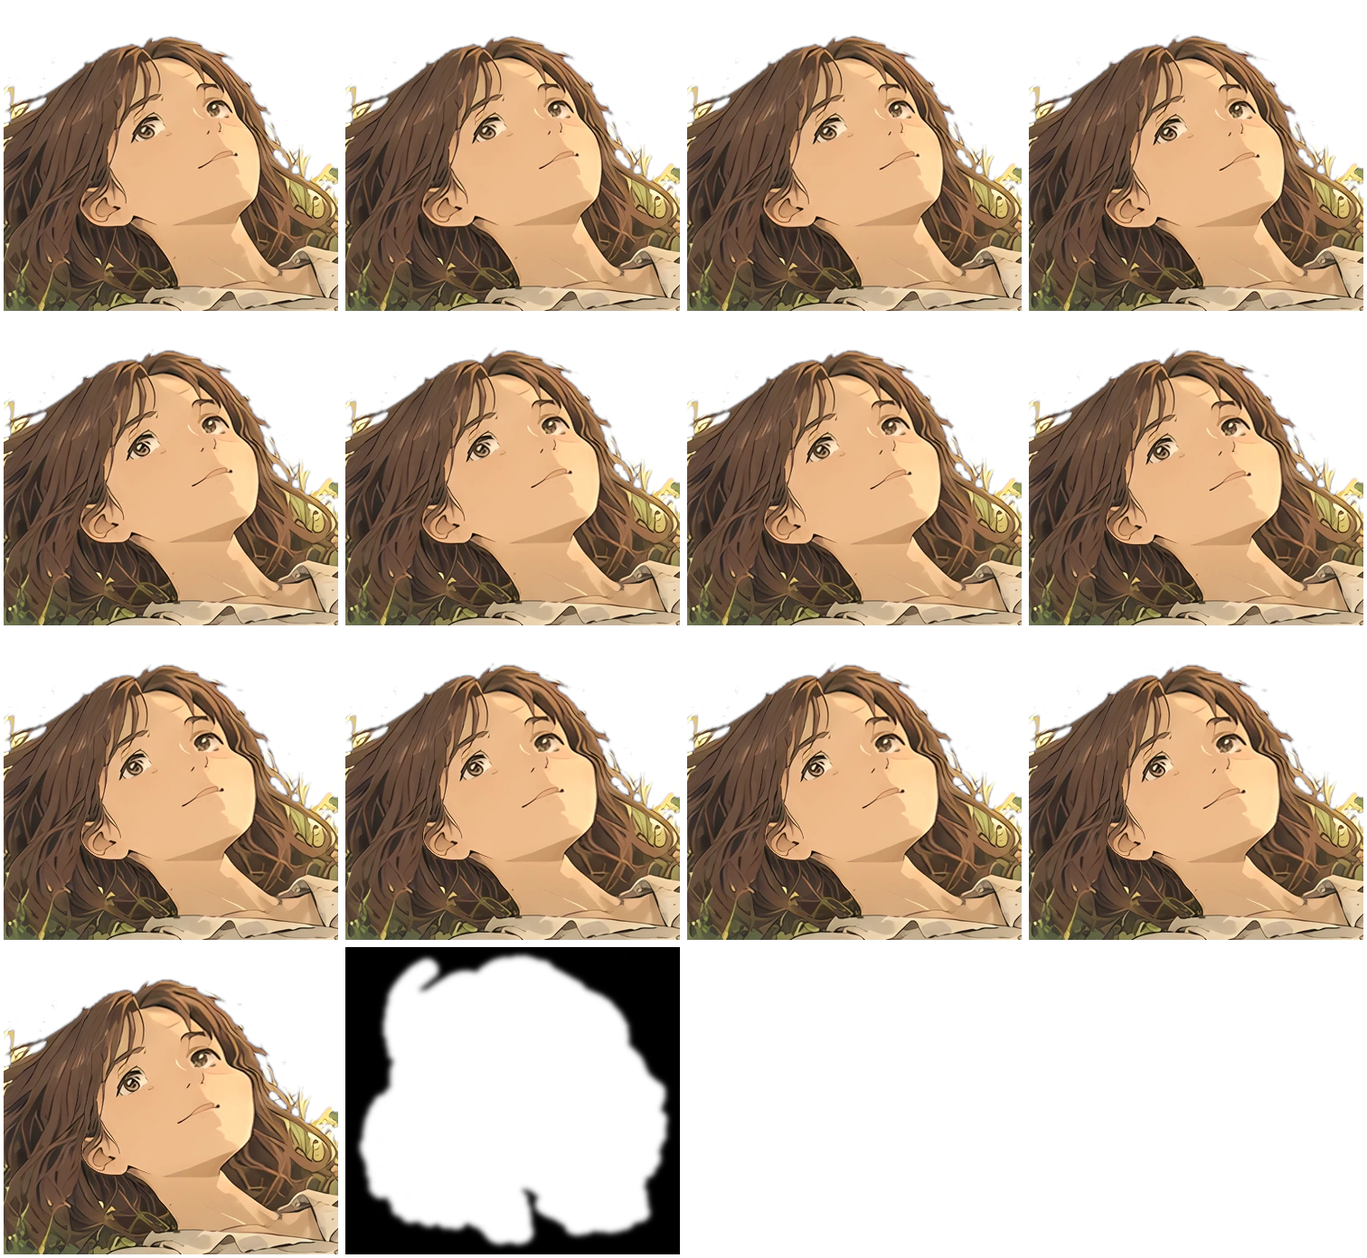
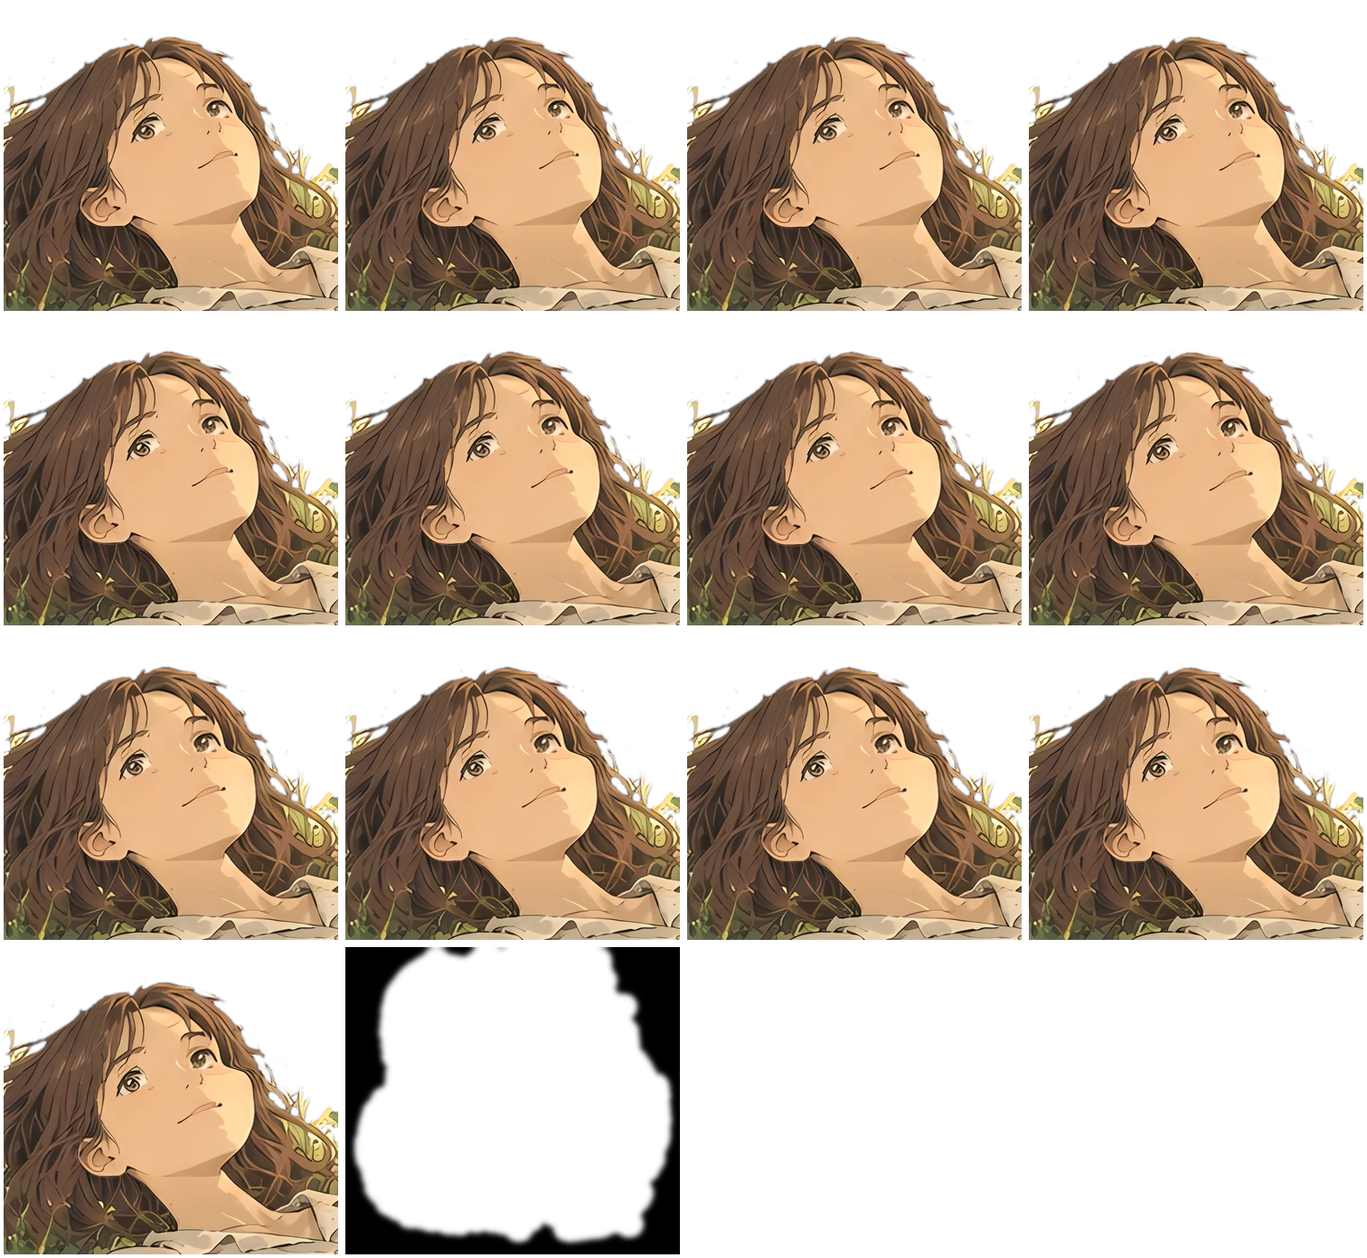
Her turn: rigid jaw and ear, decontaminated edges, Lanczos with supersampling
her-turn.py: the jaw band and the ear (a flap hinged at the cheek, rigid
past its rim) turn without compressing, the depth is slope-limited, the far
eye is masked out of the silhouette push, the hair behind follows the head
only where its edge recedes, and the soft edge is split into the colour of
the drawing and what lies behind it, so the unturned render equals the
panel within 2/255. Resampled with Lanczos (clamped to the local range)
and supersampled where the warp stretches. Strain on her inked pixels: 5.2%
outside 0.75-1.35 (was 21%).

two-shot.py: the region takes every pixel any drawing changes, and refuses
a build where a drawing changes something under the region's soft edge.
The shader's head cell is measured from the box, inset into its gutter.

Claude-Session: https://claude.ai/code/session_01KQPjgRSBPiZRUxNQL4z1Q2

diff --git a/src/world/living/materials.ts b/src/world/living/materials.ts
@@ -240,7 +240,7 @@ const FRAG = /* glsl */ `
 
   // Where a point of her head's box (hq, 0..1 up) is in cell i of her turn's atlas.
   vec2 headCell(float i, vec2 hq) {
-    float c = mod(i, uHeadGrid.x), r = floor(i / uHeadGrid.x + 0.001);
+    float r = floor(i / uHeadGrid.x + 0.001), c = i - r * uHeadGrid.x;
     vec2 inner = uHeadGrid.zw + hq * (1.0 - 2.0 * uHeadGrid.zw);
     return vec2((c + inner.x) / uHeadGrid.x, (uHeadGrid.y - 1.0 - r + inner.y) / uHeadGrid.y);
   }
@@ -412,7 +412,9 @@ const FRAG = /* glsl */ `
       // only the region's edge is soft, and it lies where every drawing is the panel).
       bool redrawn = false;
       if (uHeadCel.x >= 0.0) {
-        vec2 hq = (vUv - uHeadBox.xy) / uHeadBox.zw;
+        // (where their bed's grass sways, so does the grass at the drawing's soft edge: it lies
+        // where the body's does; on them uvF is vUv)
+        vec2 hq = (uvF - uHeadBox.xy) / uHeadBox.zw;
         if (all(greaterThan(hq, vec2(0.0))) && all(lessThan(hq, vec2(1.0)))) {
           vec4 cel = texture2D(uHeads, headCell(uHeadCel.x, hq));
           float m = texture2D(uHeads, headCell(uHeadCel.y - 1.0, hq)).r;

diff --git a/scripts/her-turn.py b/scripts/her-turn.py
@@ -12,23 +12,30 @@ from one drawing, honestly, as a rotation:
 
 - **A head under the paint.** Her pose is fitted from thirteen points of her face (eyes, nose, mouth,
   chin, brows, hairline, ear) to a generic head. On it are a cranium and a face: a midline profile
-  (forehead, nose, mouth, chin), a width, a cross-section, and the nose as a ridge. Her ear is a flap
-  hinged at her cheek, its slant halved (a drawn ear is flatter than a real one). Her neck takes its
-  depth from her jaw.
+  (forehead, nose, mouth, chin), a width, a cross-section, and the nose as a ridge; no surface steeper
+  than `SLOPE` toward its outline (a head's sides go nearly edge-on there, and paint on them swelled
+  or shrank). Her ear is a flap hinged at her cheek, its slant halved (a drawn ear is flatter than a
+  real one), rigid out past its outline; her jaw line holds rigid in a band either side of it; her
+  neck takes its depth from her jaw. So her drawn lines keep their weight.
 - **The turn.** About her neck's axis (the fitted head's up axis, leaning a little into the
   picture), toward him, by `ANGLE`. Her head turns whole; her neck twists, all of it at the jaw and
   none at the collar; the hair near her head follows it a little and the hair lying on the grass
   stays, nothing moving further than `HAIR_REACH` from her head.
 - **Two layers.** In front: her head and neck. Behind: her hair and the rest, filled under her with
-  the hair beside her (`stretch_fill`). What lies just behind her drawn edges (far cheek, chin, neck,
-  ear) moves with them, so the turn never uncovers anything the painting doesn't have. Each layer
-  is an inverse warp of the painting: her lines are resampled, never redrawn.
+  the hair beside her (`stretch_fill`). Her soft edge is split between them, her colour over the
+  colour behind it, so not turned they make the panel exactly. Where an edge of hers draws back from
+  what lies behind it (far cheek, chin, the neck's far side), that goes with it, so the turn never
+  uncovers anything the painting doesn't have; where she passes over it, she simply covers it. Each
+  layer is an inverse warp of the painting, resampled (Lanczos, within the painting's own range;
+  averaged where it is squeezed): her lines are moved, never redrawn.
 - **Her far cheek's outline is a silhouette,** not paint on her skin: it moves as the model's outline
   does (about half as far), and her cheek between it and her eye widens, as a far cheek coming round
-  does.
+  does; her far eye turns with her face, never widened.
 - **Her eyes** are on him first (the film's own iris move, `gazeB` in src/memory/living/woodland.ts,
   as the two-shot shader draws it); as her head comes round they ease back in their sockets, still on
   him (`KEEP` of their turn remains).
+- **Checked** as it runs: not turned, it is the panel (to 2/255); turned, how much of her drawn line
+  is squeezed or stretched past 0.75-1.35 is printed.
 
 One drawing for each of the timeline's steps (`TURN_STEPS`, src/memory/defs.ts) and the last, each
 the 2x crop round her head (lossless), and turn.json (where the crop lies, how far each drawing is):
@@ -63,10 +70,19 @@ CX, N = 754, 512
 ANGLE = 14.0
 TILT = 10.0
 KEEP = 0.65
-# How far from her head the hair near it follows (crop px; none beyond), and how far behind her
-# drawn edges what lies there goes with them.
+# How far from her head the hair near it follows (crop px; none beyond); how far behind an edge of
+# hers that draws back from what lies behind it that goes with it (none behind an edge that passes
+# over it: her face simply covers it); how far either side of her jaw line it holds rigid (so the
+# line keeps its weight and the squeeze falls on the plain skin under her chin); how far past her
+# ear's outline the flap holds rigid.
 HAIR_REACH = 60.0
-DRAG = 36.0
+DRAG = 48.0
+JAW_RIGID = (4.0, 16.0)
+EAR_RIGID = 6
+# How steeply her head's surface may fall away toward its outline (depth px per px): a head's sides
+# turn almost edge-on near its outline, and paint there swelled or shrank up to twice over as she
+# turned (the hair at her far temple thickened); hair is drawn the same width wherever it lies.
+SLOPE = 1.3
 
 # Her face's points on the 2x crop and on a generic head (template units, about a millimetre: up,
 # forward, to her left, from between her ear canals), its eyes larger and lower, its chin higher.
@@ -121,6 +137,9 @@ NECK = [(234, 240), (250, 243), (272, 245), (300, 242), (330, 236)] + NECK_R + \
 JAW = [(234, 240), (250, 243), (272, 245), (300, 242), (330, 236), (349, 236)]
 COLLAR = [(276, 312), (300, 313), (330, 313), (360, 311), (388, 303)]
 DRAWN = [FAR_OUT, NECK_R, NECK_L, EAR_OUT]
+# Her far eye (crop px: centre, radii grown 4 px, angle): it turns with her face, never widened by
+# her far cheek coming round.
+FAR_EYE = ((324.0, 119.2), (18.6, 11.8), 0.29)
 # Her far cheek's outline (the line's centre), below the lock over her temple.
 FAR = [(354, 132), (360, 140), (366, 152), (369, 164), (370, 176), (370, 188), (369, 200), (367, 212), (361, 220)]
 
@@ -234,6 +253,32 @@ def nearest_on(pts, values):
     return table[lab], dist
 
 
+def slope_limited(z, g, iters=96):
+    """`z` brought forward wherever it falls away faster than `g` (the largest surface under it no
+    steeper than `g` in any direction: its outline flattened, its middle as it was)."""
+    out = z.copy()
+    steps = [(dy, dx, g * math.hypot(dy, dx)) for dy in (-1, 0, 1) for dx in (-1, 0, 1) if dy or dx]
+    for _ in range(iters):
+        p = np.pad(out, 1, mode='edge')
+        m = out.copy()
+        for dy, dx, c in steps:
+            m = np.minimum(m, p[1 + dy:1 + dy + N, 1 + dx:1 + dx + N] + c)
+        if np.abs(m - out).max() < 1e-3:
+            return m
+        out = m
+    return out
+
+
+def nearest_on_mask(mask, values):
+    """For each pixel, `values` (an (N, N) or (N, N, C) map) at its nearest pixel of `mask`, and the
+    distance to it."""
+    m = np.where(mask, 0, 255).astype(np.uint8)
+    dist, lab = cv2.distanceTransformWithLabels(m, cv2.DIST_L2, 5, labelType=cv2.DIST_LABEL_PIXEL)
+    table = np.zeros((lab.max() + 1,) + values.shape[2:], values.dtype)
+    table[lab[mask]] = values[mask]
+    return table[lab], dist
+
+
 def hairness(img):
     """How much a pixel is her hair (0..1, soft): brown, darker than her skin."""
     r, g, b = img[..., 0], img[..., 1], img[..., 2]
@@ -274,7 +319,8 @@ def stretch_fill(img, hole, k=0.6, gap=1.5):
     colour = num / np.maximum(den, 1e-4)[..., None]
     t = np.clip(got, 0, 1)[..., None]
     filled = filled * t + colour * (1 - t)
-    m = np.clip(cv2.GaussianBlur(hole.astype(np.float32), (0, 0), 0.8) * 1.6, 0, 1)[..., None]
+    # (a hard seam: it lies under her opaque core, and feathered out it ate into her soft edge)
+    m = hole.astype(np.float32)[..., None]
     return img * (1 - m) + filled * m
 
 
@@ -292,6 +338,40 @@ def inverse(D, iters=80, damp=0.6):
     dx = cv2.remap(Dx, px, py, cv2.INTER_LINEAR, borderMode=cv2.BORDER_REPLICATE)
     dy = cv2.remap(Dy, px, py, cv2.INTER_LINEAR, borderMode=cv2.BORDER_REPLICATE)
     return px, py, np.hypot(px + dx - X, py + dy - Y)
+
+
+def span(mx, my):
+    """How much of the source each output pixel takes in, at most across any direction (the inverse
+    map's largest stretch: above 1 where the turn squeezes her)."""
+    a, b = np.gradient(mx, axis=1), np.gradient(mx, axis=0)
+    c, d = np.gradient(my, axis=1), np.gradient(my, axis=0)
+    q = a * a + b * b + c * c + d * d
+    return np.sqrt(0.5 * (q + np.sqrt((a * a + b * b - c * c - d * d) ** 2 + 4 * (a * c + b * d) ** 2)))
+
+
+def resample(img, mx, my, interp=cv2.INTER_LANCZOS4, border=cv2.BORDER_REFLECT, ss=4):
+    """`img` sampled at (mx, my): one sample a pixel where the turn doesn't squeeze her (Lanczos, so a
+    sub-pixel move keeps her lines as crisp as the painting: bicubic softened her face by 6%; held
+    within the painting's own range round it),
+    averaged over `ss`x`ss` where it does (so a fine line squeezed toward her ear stays a line, never
+    dots)."""
+    one = cv2.remap(img, mx, my, interp, borderMode=border)
+    if interp == cv2.INTER_LANCZOS4:
+        # (no brighter or darker than the painting round it: Lanczos rings, and beside a thin dark
+        # strand on the paper the ring read as a second, pale strand)
+        k3 = np.ones((3, 3), np.uint8)
+        lo = cv2.remap(cv2.erode(img, k3), mx, my, cv2.INTER_LINEAR, borderMode=border)
+        hi = cv2.remap(cv2.dilate(img, k3), mx, my, cv2.INTER_LINEAR, borderMode=border)
+        one = np.clip(one, lo, hi)
+    t = smoothstep(1.04, 1.3, span(mx, my))
+    if t.max() <= 0:
+        return one
+    h, w = mx.shape
+    big = cv2.remap(img, cv2.resize(mx, (w * ss, h * ss), interpolation=cv2.INTER_LINEAR),
+                    cv2.resize(my, (w * ss, h * ss), interpolation=cv2.INTER_LINEAR), cv2.INTER_CUBIC, borderMode=border)
+    many = cv2.resize(big, (w, h), interpolation=cv2.INTER_AREA)
+    t = t.reshape(t.shape + (1,) * (one.ndim - 2))
+    return one * (1 - t) + many * t
 
 
 class Head:
@@ -318,12 +398,17 @@ class Head:
         # carried down from her jaw (so it twists on from it, never shears).
         zc, inside_c = self.surface(*self.cranium())
         zf, _ = self.surface(*self.face())
-        z = fillnan(np.fmin(zc, zf))
+        z = slope_limited(fillnan(np.fmin(zc, zf)), SLOPE)
         zn, _ = nearest_on(JAW, z)
         dj, dc = line_dist(JAW), line_dist(COLLAR)
         tneck = np.clip(dj / np.maximum(dj + dc, 1e-3), 0, 1)
         bj = np.where(below, np.clip(dj / 14.0, 0, 1), 0)
         z = z * (1 - bj) + zn * bj
+        # (her jaw line and a band either side of it as one: the face model's chin curves away under
+        # it, and turning, that squeezed the drawn line six times over until it faded)
+        zj, dl = nearest_on(JAW, z)
+        w = 1 - smoothstep(*JAW_RIGID, dl)
+        z = z * (1 - w) + zj * w
         z = self.ear_depth(z)
         fm = cv2.GaussianBlur(front, (0, 0), 1.0) + 1e-3
         z = masked_blur(z, fm, 3.0)
@@ -332,19 +417,46 @@ class Head:
         wneck = 1 - smoothstep(0, 1, tneck)
         self.wF = cv2.GaussianBlur(fillnan(np.where(self.head > 0.5, 1.0, np.where(below, wneck, np.nan))).astype(np.float32), (0, 0), 2.0).astype(np.float64)
 
-        # Behind: the panel itself wherever her edge is soft, so where both layers turn alike (the
-        # hair round her crown) they make the panel exactly; filled under her, and under the soft
-        # edge too along her drawn edges where it isn't hair (no sliver of her stays behind).
+        # Her soft edge, split into her and what is behind her: each edge pixel's colour is hers (her
+        # nearest inner colour) over the colour behind it (what the panel's pixel implies, given how
+        # much of it is hers), so not turned the two make the panel exactly, and turned, no sliver of
+        # her stays behind. Under her, the hair beside her continues (`stretch_fill`).
         self.d_front = cv2.distanceTransform((front < 0.5).astype(np.uint8), cv2.DIST_L2, 5)
-        d_drawn = np.minimum.reduce([line_dist(p) for p in DRAWN])
-        ramp = (cv2.dilate((self.front_a > 0.02).astype(np.uint8), np.ones((5, 5), np.uint8)) > 0) & (d_drawn < 5)
-        hole = (self.front_a >= 0.98) | (ramp & (hairness(self.panel) < 0.5))
-        self.back = stretch_fill(self.panel, hole)
-        self.zB = cv2.GaussianBlur(fillnan(np.where(inside_c, zc, np.nan)).astype(np.float32), (0, 0), 3.0).astype(np.float64)
+        A = self.front_a[..., None]
+        core = self.front_a >= 0.99
+        self.soft = (self.front_a > 0.004) & ~core
+        # (hers as near her inner colour as the pixel allows: a drawn line lying in her soft edge is
+        # dark, and can't be skin over something darker than black, so it stays her line)
+        inner, _ = nearest_on_mask(core, self.panel)
+        d = inner - self.panel
+        with np.errstate(divide='ignore', invalid='ignore'):
+            room = np.where(d > 1e-4, (1 - A) * self.panel / (A * d), np.where(d < -1e-4, (1 - A) * (1 - self.panel) / (-A * d), np.inf))
+        lam = np.clip(np.nan_to_num(room.min(-1, keepdims=True), nan=0.0, posinf=1.0), 0, 1)
+        self.inner = self.panel + lam * d
+        behind = np.clip((self.panel - A * self.inner) / np.maximum(1 - A, 1e-3), 0, 1)
+        self.back = stretch_fill(np.where(self.soft[..., None], behind, self.panel).astype(np.float32), core)
+        # (the hair's depth smooth: hair lying on the grass took the steep fall of the cranium's
+        # outline and bunched up beside her near temple)
+        self.zB = cv2.GaussianBlur(fillnan(np.where(inside_c, zc, np.nan)).astype(np.float32), (0, 0), 16.0).astype(np.float64)
         dhead = cv2.distanceTransform((self.head < 0.5).astype(np.uint8), cv2.DIST_L2, 5)
         wB = 1 - smoothstep(0, HAIR_REACH, dhead)
         wB = np.where(below, np.minimum(wB, wneck), wB)
         self.wB = cv2.GaussianBlur(wB.astype(np.float32), (0, 0), 2.0).astype(np.float64)
+        # Which of her edges draw back from what lies behind them as she turns (at the full turn:
+        # how far each edge point moves inward, 4 px or more counting fully), carried outward from
+        # her edge: only there does what is behind go with her.
+        DF = self.motion(self.zF, self.wF, math.radians(-ANGLE))
+        gy, gx = np.gradient(cv2.GaussianBlur(self.d_front.astype(np.float32), (0, 0), 2.0))
+        nrm = np.stack([gx, gy], -1)
+        nrm /= np.linalg.norm(nrm, axis=-1, keepdims=True) + 1e-6
+        edge = (self.d_front > 0) & (self.d_front <= 2)
+        rec = np.clip(-(DF * nrm).sum(-1) / 4.0, 0, 1)
+        # (where no line is drawn, as in the hair at her crown and temples, her hair is one with what
+        # lies beyond it, and always goes with it: split there, a strand doubled)
+        drawn = np.minimum.reduce([line_dist(p) for p in DRAWN]) <= 4
+        rec = np.where(drawn, rec, 1.0)
+        rec_out, _ = nearest_on_mask(edge, rec)
+        self.drag = cv2.GaussianBlur(((1 - smoothstep(0, DRAG, self.d_front)) * rec_out).astype(np.float32), (0, 0), 3.0).astype(np.float64)
 
     # -- the model ---------------------------------------------------------------------------------
 
@@ -385,10 +497,13 @@ class Head:
         gx, gy = -n[0] / n[2] * EAR_FLAT, -n[1] / n[2] * EAR_FLAT
         hx, hy = EAR_HINGE
         zp = z[hy, hx] + gx * (self.X[..., 0] - hx) + gy * (self.X[..., 1] - hy)
-        m = cv2.GaussianBlur(poly(EAR), (0, 0), 3.0)
+        # (rigid out past its outline, so its rim, the rim's light and the outline turn as the flap;
+        # blended into her cheek and hair beyond)
+        grown = cv2.dilate((poly(EAR) > 0.5).astype(np.uint8), cv2.getStructuringElement(cv2.MORPH_ELLIPSE, (2 * EAR_RIGID + 1, 2 * EAR_RIGID + 1)))
+        m = cv2.GaussianBlur(grown.astype(np.float32), (0, 0), 3.0)
         return z * (1 - m) + zp * m
 
-    def far_push(self, z, far_in=30.0, psi=math.radians(-20.0)):
+    def far_push(self, z, far_in=40.0, psi=math.radians(-20.0)):
         """How far to push the paint near her far cheek's outline back toward her neck's axis, so it
         keeps pace with the model's outline: from the model's outline before and after a turn (signed
         distances), at each point of the drawn one; along it, fading out under the lock at her temple
@@ -417,11 +532,16 @@ class Head:
             push.append((s0[y * k, x * k] - s1[y * k, x * k] - moved @ nrm) / (per_px @ nrm))
         rows = np.mgrid[0:N, 0:N][0].astype(np.float64)
         near_y, dist = nearest_on(FAR, rows)
-        val = np.interp(near_y, [p[1] for p in FAR], push) * smoothstep(124, 140, near_y) * (1 - smoothstep(206, 224, near_y))
+        val = np.interp(near_y, [p[1] for p in FAR], push) * smoothstep(124, 140, near_y) * (1 - smoothstep(192, 232, near_y))
         r, g, b = self.panel[..., 0], self.panel[..., 1], self.panel[..., 2]
         skin = (0.3 * r + 0.59 * g + 0.11 * b > 0.6) & (r > g) & (g > b) & (r - b > 0.15)
         inside = self.head > 0.5
         where = cv2.GaussianBlur(((skin & inside) | (dist < 4) | ~inside).astype(np.float32), (0, 0), 2.5)
+        (ex, ey), (rx, ry), ang = FAR_EYE
+        cs, sn = math.cos(ang), math.sin(ang)
+        dx, dy = self.X[..., 0] - ex, self.X[..., 1] - ey
+        eye = np.hypot((dx * cs + dy * sn) / rx, (-dx * sn + dy * cs) / ry)
+        where = where * smoothstep(1.0, 1.6, eye)
         return val * where * np.where(inside, 1 - smoothstep(0, far_in, dist), 1.0)
 
     # -- the turn ----------------------------------------------------------------------------------
@@ -442,13 +562,13 @@ class Head:
         is toward him). Returns the picture and the warps' worst error (px)."""
         DF = self.motion(self.zF, self.wF, psi)
         DB = self.motion(self.zB, self.wB, psi)
-        t = (1 - smoothstep(0, DRAG, self.d_front))[..., None]
+        t = self.drag[..., None]
         DB = DF * t + DB * (1 - t)
         fx, fy, fres = inverse(DF)
         bx, by, bres = inverse(DB)
-        B = cv2.remap(self.back, bx, by, cv2.INTER_CUBIC, borderMode=cv2.BORDER_REFLECT)
-        F = cv2.remap(img.astype(np.float32), fx, fy, cv2.INTER_CUBIC, borderMode=cv2.BORDER_REFLECT)
-        A = cv2.remap(self.front_a, fx, fy, cv2.INTER_LINEAR, borderMode=cv2.BORDER_CONSTANT)[..., None]
+        B = resample(self.back, bx, by)
+        F = resample(np.where(self.soft[..., None], self.inner, img).astype(np.float32), fx, fy)
+        A = resample(self.front_a, fx, fy, cv2.INTER_LINEAR, cv2.BORDER_CONSTANT)[..., None]
         err = max(float(fres[self.front_a > 0.5].max()), float(bres.max()))
         return np.clip(F * A + B * (1 - A), 0, 1), err
 
@@ -481,6 +601,21 @@ def looking(img, eye, gaze):
     return img * (1 - m[..., None]) + out * m[..., None]
 
 
+def strain(head, psi):
+    """How much the turn squeezes or stretches her drawn lines (the area of each of her inked pixels
+    afterward, 1 unchanged): the inked pixels of her head and neck, and the share outside 0.75-1.35."""
+    D = head.motion(head.zF, head.wF, psi)
+    dxx, dxy = np.gradient(D[..., 0], axis=1), np.gradient(D[..., 0], axis=0)
+    dyx, dyy = np.gradient(D[..., 1], axis=1), np.gradient(D[..., 1], axis=0)
+    det = (1 + dxx) * (1 + dyy) - dxy * dyx
+    r, g, b = head.panel[..., 0], head.panel[..., 1], head.panel[..., 2]
+    lum = 0.3 * r + 0.59 * g + 0.11 * b
+    gm = np.hypot(*np.gradient(cv2.GaussianBlur(lum, (0, 0), 0.7)))
+    inked = (gm > 0.06) & (lum < 0.5) & (head.front_a > 0.98)
+    v = det[inked]
+    return v, float(((v < 0.75) | (v > 1.35)).mean())
+
+
 def steps():
     """How far she has turned at each drawing: the timeline's `TURN_STEPS`, then all the way."""
     src = open(os.path.join(ROOT, 'src', 'memory', 'defs.ts')).read()
@@ -496,6 +631,14 @@ def main():
     spec = open(os.path.join(ROOT, 'src', 'memory', 'living', 'woodland.ts')).read()
     gaze = np.array([float(v) for v in re.search(r'gazeB:\s*\[([-\d.]+),\s*([-\d.]+)\]', spec).groups()])
     head = Head(panel)
+    # (Checks: not turned, the rig is the panel; turned, her lines keep their weight.)
+    still, _ = head.render(0.0, panel)
+    off = np.abs(still - panel).max(-1)
+    assert np.percentile(off, 99.9) <= 2 / 255 + 1e-6 and off.max() <= 12 / 255, \
+        f'not turned, the rig should be the panel: p99.9 {np.percentile(off, 99.9) * 255:.1f}/255, max {off.max() * 255:.0f}/255 at {np.unravel_index(off.argmax(), off.shape)}'
+    v, outside = strain(head, math.radians(-ANGLE))
+    print(f'her-turn: not turned, the panel to {off.max() * 255:.0f}/255; turned, her inked pixels\' area {np.percentile(v, 1):.2f}-{np.percentile(v, 99):.2f} '
+          f'(p1-p99), {outside * 100:.1f}% outside 0.75-1.35')
     os.makedirs(OUT, exist_ok=True)
     for old in os.listdir(OUT):
         if old.startswith('b-turn-'):

diff --git a/scripts/two-shot.py b/scripts/two-shot.py
@@ -60,7 +60,7 @@ TURN = os.path.join(cut.REF, 'drawings', 'turn')
 # Where her turn's drawings differ from the panel by this much or less, they are the panel (her
 # hair's motion fades out to nothing: scripts/her-turn.py `HAIR_REACH`); the region they are laid in
 # by reaches this far past it (2x px), so its soft edge never crosses anything that moved.
-STILL, REGION_PAD = 0.006, 10
+STILL, REGION_PAD = 0.002, 14
 # Their eyes (sheet px, y down; measured on the panel at twice its size): the opening below the
 # lash line (centre, radii, angle: positive turns its outer end down), and the iris in it (centre,
 # radius). A look moves the iris along the opening, the white filling in where it was; the lash
@@ -430,6 +430,10 @@ def main():
         t2[cy:cy + ch, cx:cx + cw] = crop
         tops.append(t2)
     region2, region1 = turn_region(tops, top)
+    # (where the region is soft, every drawing is still the panel: no seam where it is laid in)
+    band = (region2 > 0.02) & (region2 < 0.98)
+    seam = max(float(np.abs(t2 - top).max(-1)[band].max()) for t2 in tops)
+    assert seam <= 3 / 255 + 1e-6, f'her turn moves something under the region\'s soft edge: {seam * 255:.1f}/255'
     bx, by, bw, bh = boxed(region1)
     box_k = (slice(by * k, (by + bh) * k), slice(bx * k, (bx + bw) * k))
     rk = region2[box_k]
@@ -498,7 +502,7 @@ def main():
     with open(MANIFEST, 'w') as f:
         json.dump(manifest, f, indent=2)
         f.write('\n')
-    print(f'two-shot: panel {rw}x{h} ({k}x the sheet, to x {REACH}); her turn {len(names)} drawings, {bw}x{bh} at ({bx}, {by}) sheet px, '
+    print(f'two-shot: panel {rw}x{h} ({k}x the sheet, to x {REACH}); her turn {len(names)} drawings, {bw}x{bh} at ({bx}, {by}) sheet px (seam {seam * 255:.1f}/255), '
           f'atlas {atlas.shape[1]}x{atlas.shape[0]} ({cells_grid[0]}x{cells_grid[1]}); ground {gw}x{gh}; whites {wh}')
 
 
